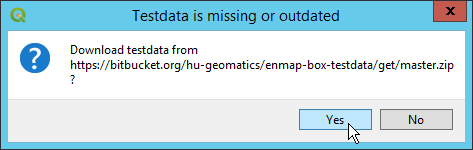
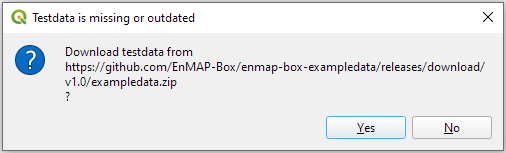
updated example data section

diff --git a/source/_static/css/custom.css b/source/_static/css/custom.css
@@ -103,6 +103,7 @@ h4, h5, h6 {
 */
 
 /* inline markups*/
+/*
 .menuselection {
   border:1px dashed #7fbbe366;
   background:#f1f9ff;
@@ -122,6 +123,7 @@ h4, h5, h6 {
   padding:0px 3px;
   margin:auto 2px
 }
+*/
 
 .kbd {
   font-weight: bold;

diff --git a/source/usr_section/usr_manual/example_data.rst b/source/usr_section/usr_manual/example_data.rst
@@ -3,60 +3,68 @@
 Example Data
 ************
 
-.. note::
+The EnMAP-Box comes with a ready-to-use example dataset so you can easily test various aspects of the software.
 
-   For opening the dataset go to the menubar :menuselection:`Project --> Load Example Data`
+Open
+####
 
-   .. image:: /img/gui_loadexampledata.png
+The dataset can be accessed via :menuselection:`Project --> Add Example Data`.
+This will automatically open all layers in one map view.
 
-   If you try to open the dataset for the first time, you will be asked to download the data from the repository:
+.. image:: /img/gui_loadexampledata.png
 
-   .. figure:: /img/gui_downloadtestdata.png
+If you try to open the dataset for the first time, you will be asked to
+download the data (confirm with :guilabel:`Yes`):
 
-   After you downloaded the dataset, you can also use the processing algorithm *Open Test Maps* (in *Auxillary*) to open the dataset.
+.. figure:: /img/gui_downloadtestdata.png
 
-**EnMAP (30m; 177 bands):**
+Once downloaded, the data is located inside the plugin folder under :file:`enmapboxplugin\\enmapbox\\exampledata`.
 
-File name: :file:`enmap_berlin.bsq`
+Layers
+######
 
-Simulated EnMAP data (based on 3.6m HyMap imagery) acquired in August 2009 over south eastern part of Berlin. It has a spectral resolution of 177 bands and a spatial resolution of 30m.
-
-
-**HyMap (3.6m; Blue, Green, Red bands)**
-
-File name: :file:`hires_berlin.bsq`
-
-HyMap image acquired in August 2009 over south eastern part of Berlin. This dataset was reduced to 3 bands for true color display. The spatial resolution is 3.6m.
-
-
-**LandCover Vector Layer (Polygon):**
-
-File name: :file:`landcover_berlin_polygon.gpkg`
-
-Polygon vector geopackage containing land cover information on three classification levels. Derived from very high resolution aerial imagery and cadastral datasets.
-
- * Level 1 classes: Impervious, Vegetation, Soil, Water
- * Level 2 classes: Impervious, Low Vegetation, Soil, Tree, Water
- * Level 3 classes: Roof, Pavement, Low Vegetation, Soil, Tree, Water
-
-**LandCover Vector Layer (Point):**
-
-File name: :file:`landcover_berlin_point.shp`
-
-Point vector geopackage containing land cover information on two classification levels.
-
- * Level 1 classes: Impervious, Vegetation, Soil, Water
- * Level 2 classes: Impervious, Low Vegetation, Soil, Tree, Water
+enmap_potsdam.tif
+	Hyperspectral EnMAP Level 2A data acquired on the 24th of July 2022 over the City of Potsdam, Germany,
+	Provider: DLR (german aerospace center)
+	EnMAP L2A scene ID: ENMAP01-____L2A-DT0000001867_20220724T104526Z_008_V010302_20230628T165614Z (processing v1.3.2)
+	Ground sampling distance: 30 m
+	Number of bands: 224 (from 400 to 2450 nm)
+	Number of bad bands: 6 (filled with no data value)
+	Data: 330x200x244 (Float32)
 
 
-**Spectral Library:**
+aerial_potsdam.tif
+	Aerial image acquired on the 1st of April 2019 over the City of Potsdam, Germany.
+	Provider: LGB (Landesvermessung und Geobasisinformation Brandenburg)
+	Ground sampling distance: 0.2 m resampled to 1 m
+	Number of bands: 4 (red, green, blue, near-infrared)
+	Data: 9000x9000x4 (Byte)
+	Copyrights: GeoBasis-DE/LGB, dl-de/by-2-0 and Geoportal Berlin, dl-de/by-2-0 (data modified). Also see https://geobroker.geobasis-bb.de/gbss.php?MODE=GetProductInformation&PRODUCTID=253b7d3d-6b42-47dc-b127-682de078b7ae
 
-File name: :file:`library_berlin.sli`
 
-Spectral library with 75 spectra (material level, level 2 and level 3 class information)
+landcover_potsdam_polygon.gpkg
+	Land cover reference polygons derived from the aerial imagery described above.
+	Number of polygons: 9677
+	Level 1 classes: Impervious, Vegetation, Soil, Water
+	Level 2 classes: Impervious, Low Vegetation, Soil, Tree, Water
+	Level 3 classes: Roof, Pavement, Low Vegetation, Soil, Tree, Water
 
-.. figure:: /img/testdata_speclib.png
-   :width: 100%
 
-   library_berlin.sli opened in the EnMAP-Box Spectral Library Window
+landcover_potsdam_point.gpkg
+	Land cover reference points derived from the aerial imagery described above.
+	Number of points: 120
+	Level 1 classes: Impervious, Vegetation, Soil, Water
+	Level 2 classes: Impervious, Low Vegetation, Soil, Tree, Water
 
+
+.. figure:: /img/example_data.png
+   :align: center
+
+   All layers from the Example Dataset opened in one map view
+
+Full EnMAP Example Scene
+########################
+
+Download the full EnMAP L2A Scene which :file:`enmap_potsdam.tif` is based on via
+:menuselection:`Project --> Download Example Scene` or from the following link:
+https://box.hu-berlin.de/f/8baee334773b4cb8847e/

diff --git a/source/usr_section/usr_manual/usr_manual.rst b/source/usr_section/usr_manual/usr_manual.rst
@@ -8,7 +8,7 @@ User Manual
    gui.rst
    tools.rst
    applications.rst
-   example_data.rst
    eo4q.rst
+   example_data.rst
    processing_algorithms/processing_algorithms.rst
    metadata_guide.rst
